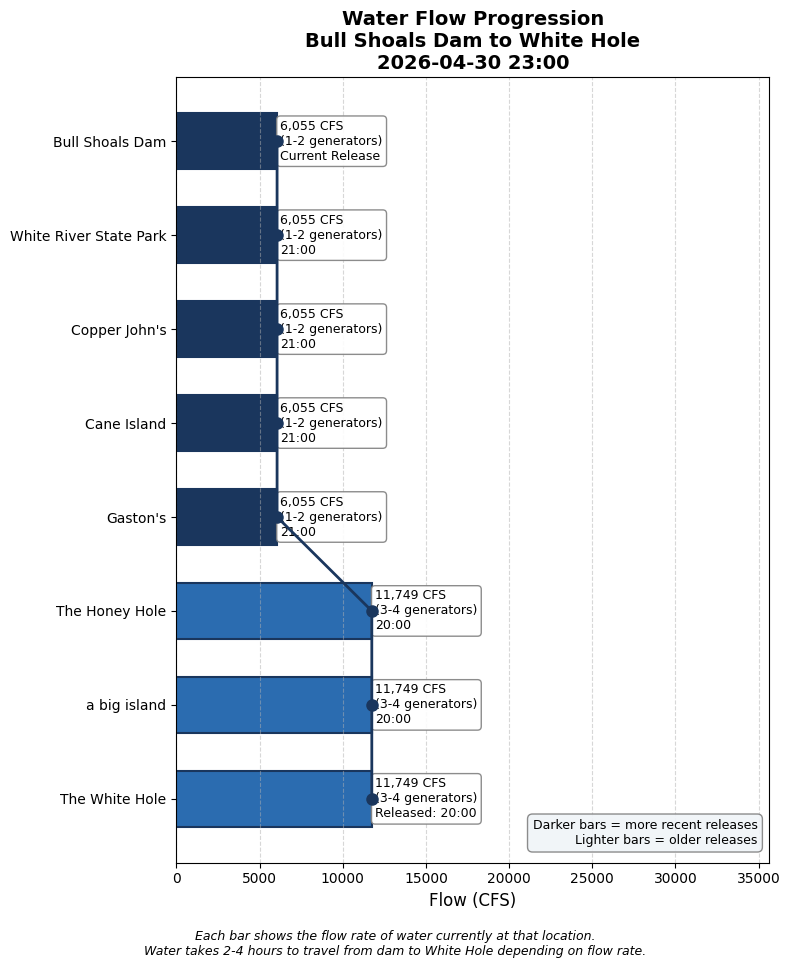
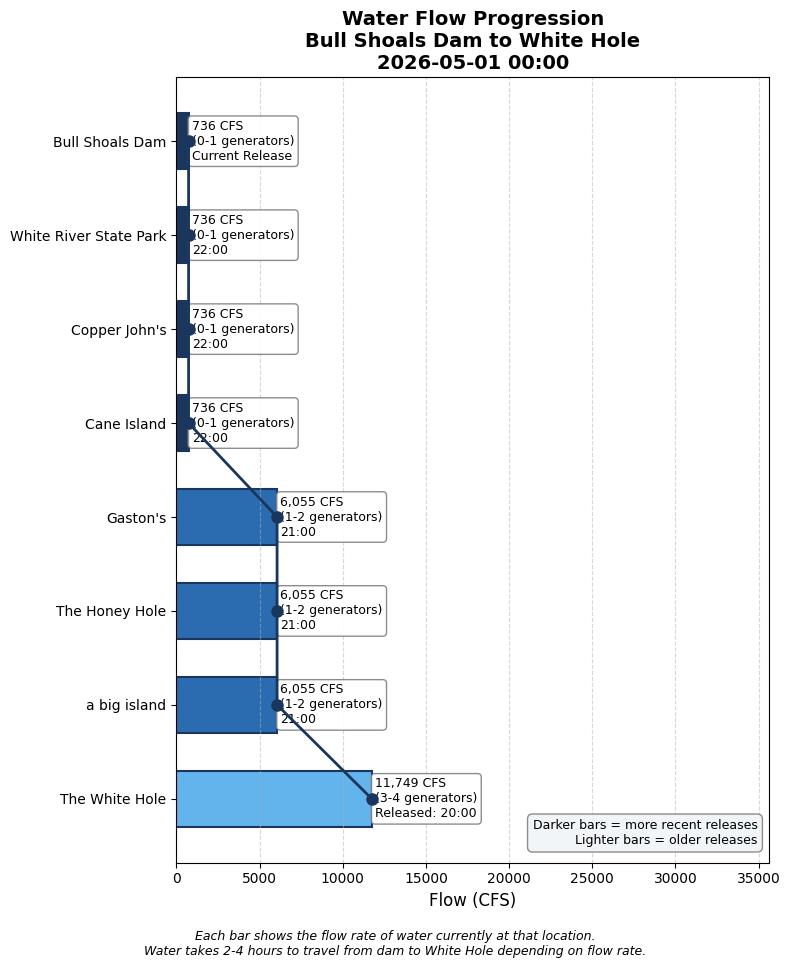
Update water conditions 2026-05-01 00:00

diff --git a/white_hole_conditions.html b/white_hole_conditions.html
@@ -3,7 +3,7 @@
 <head>
     <meta charset="UTF-8">
     <meta name="viewport" content="width=device-width, initial-scale=1.0">
-    <title>White Hole Conditions - 2026-04-30 23:00</title>
+    <title>White Hole Conditions - 2026-05-01 00:00</title>
     <style>
         body {
             font-family: -apple-system, BlinkMacSystemFont, 'Segoe UI', Roboto, sans-serif;
@@ -148,7 +148,7 @@
 </head>
 <body>
     <h1>White Hole Current Conditions</h1>
-    <p class="subtitle">Thursday, April 30, 2026 at 11:00 PM</p>
+    <p class="subtitle">Friday, May 01, 2026 at 12:00 AM</p>
 
     <!-- HEADLINE BANNER -->
     <div class="headline-banner">
@@ -189,9 +189,33 @@
                 <tr><td colspan="3" style="padding: 8px 10px; font-size: 0.8em; font-weight: bold; color: #6b46c1; text-transform: uppercase; letter-spacing: 0.05em; background-color: #f3e8ff;">Scheduled (SWPA forecast)</td></tr>
                 
                     <tr style="background-color: #faf5ff; border-left: 4px solid #38a169;">
-                        <td style="padding: 10px; font-weight: bold;">11 PM</td>
+                        <td style="padding: 10px; font-weight: bold;">3 AM</td>
                         <td style="padding: 10px;">723 CFS<br><small style="color: #666;">(0-1 generators: 473 generation + 250 min flow)</small></td>
-                        <td style="padding: 10px;">~2:44 AM
+                        <td style="padding: 10px;">~6:44 AM
+                            <span style="display: inline-block; margin-left: 6px; padding: 2px 8px; border-radius: 12px; font-size: 0.8em; background-color: #d1fae5; color: #065f46;">Excellent Wading</span>
+                        </td>
+                    </tr>
+                
+                    <tr style="background-color: #faf5ff; border-left: 4px solid #38a169;">
+                        <td style="padding: 10px; font-weight: bold;">2 AM</td>
+                        <td style="padding: 10px;">723 CFS<br><small style="color: #666;">(0-1 generators: 473 generation + 250 min flow)</small></td>
+                        <td style="padding: 10px;">~5:44 AM
+                            <span style="display: inline-block; margin-left: 6px; padding: 2px 8px; border-radius: 12px; font-size: 0.8em; background-color: #d1fae5; color: #065f46;">Excellent Wading</span>
+                        </td>
+                    </tr>
+                
+                    <tr style="background-color: #faf5ff; border-left: 4px solid #38a169;">
+                        <td style="padding: 10px; font-weight: bold;">1 AM</td>
+                        <td style="padding: 10px;">723 CFS<br><small style="color: #666;">(0-1 generators: 473 generation + 250 min flow)</small></td>
+                        <td style="padding: 10px;">~4:44 AM
+                            <span style="display: inline-block; margin-left: 6px; padding: 2px 8px; border-radius: 12px; font-size: 0.8em; background-color: #d1fae5; color: #065f46;">Excellent Wading</span>
+                        </td>
+                    </tr>
+                
+                    <tr style="background-color: #faf5ff; border-left: 4px solid #38a169;">
+                        <td style="padding: 10px; font-weight: bold;">12 AM</td>
+                        <td style="padding: 10px;">723 CFS<br><small style="color: #666;">(0-1 generators: 473 generation + 250 min flow)</small></td>
+                        <td style="padding: 10px;">~3:44 AM
                             <span style="display: inline-block; margin-left: 6px; padding: 2px 8px; border-radius: 12px; font-size: 0.8em; background-color: #d1fae5; color: #065f46;">Excellent Wading</span>
                         </td>
                     </tr>
@@ -201,9 +225,15 @@
                 <tr><td colspan="3" style="padding: 8px 10px; font-size: 0.8em; font-weight: bold; color: #2b6cb0; text-transform: uppercase; letter-spacing: 0.05em; background-color: #ebf8ff;">Actual (dam readings)</td></tr>
                 
                     <tr style="background-color: #ebf8ff;">
+                        <td style="padding: 10px; font-weight: bold;">10:00 PM</td>
+                        <td style="padding: 10px;">736 CFS<br><small style="color: #666;">(0-1 generators)</small></td>
+                        <td style="padding: 10px;"><span style="color: #2b6cb0;">→ Arrives ~1:44 AM (in 103 min)</span></td>
+                    </tr>
+                
+                    <tr style="background-color: #ebf8ff;">
                         <td style="padding: 10px; font-weight: bold;">9:00 PM</td>
                         <td style="padding: 10px;">6,055 CFS<br><small style="color: #666;">(1-2 generators)</small></td>
-                        <td style="padding: 10px;"><span style="color: #2b6cb0;">→ Arrives ~12:03 AM (in 63 min)</span></td>
+                        <td style="padding: 10px;"><span style="color: #2b6cb0;">→ Arrives ~12:03 AM (in 3 min)</span></td>
                     </tr>
                 
                     <tr style="background-color: #e6fffa;">
@@ -213,8 +243,8 @@
                     </tr>
                 
                     <tr style="">
-                        <td style="padding: 10px; font-weight: bold;">4:00 PM</td>
-                        <td style="padding: 10px;">4,654 CFS<br><small style="color: #666;">(1-2 generators)</small></td>
+                        <td style="padding: 10px; font-weight: bold;">5:00 PM</td>
+                        <td style="padding: 10px;">10,716 CFS<br><small style="color: #666;">(3-4 generators)</small></td>
                         <td style="padding: 10px;"><span style="color: #718096;">passed</span></td>
                     </tr>
                 
@@ -244,7 +274,7 @@
         </summary>
         <div style="padding: 15px;">
             <ul>
-                <li>Latest dam reading: 6,055 CFS at 2026-04-30 21:00</li>
+                <li>Latest dam reading: 736 CFS at 2026-04-30 22:00</li>
                 <li>Travel time to White Hole: 2.5 hours at current flow</li>
                 <li>White Hole conditions based on dam reading from: 2026-04-30 20:00</li>
             </ul>
@@ -268,6 +298,13 @@
                     </thead>
                     <tbody>
                         
+                <tr style="border-bottom: 1px solid #eee;">
+                    <td style="padding: 8px;">2026-04-30 22:00</td>
+                    <td style="padding: 8px; text-align: right;">736</td>
+                    <td style="padding: 8px; text-align: right;">0.2</td>
+                    <td style="padding: 8px; text-align: right;">3.7</td>
+                </tr>
+                
                 <tr style="border-bottom: 1px solid #eee;">
                     <td style="padding: 8px;">2026-04-30 21:00</td>
                     <td style="padding: 8px; text-align: right;">6055</td>
@@ -331,13 +368,6 @@
                     <td style="padding: 8px; text-align: right;">3.7</td>
                 </tr>
                 
-                <tr style="border-bottom: 1px solid #eee;">
-                    <td style="padding: 8px;">2026-04-30 12:00</td>
-                    <td style="padding: 8px; text-align: right;">717</td>
-                    <td style="padding: 8px; text-align: right;">0.2</td>
-                    <td style="padding: 8px; text-align: right;">3.7</td>
-                </tr>
-                
                     </tbody>
                 </table>
             </div>
@@ -345,7 +375,7 @@
         
 
     <div class="timestamp">
-        Data retrieved and processed on 2026-04-30 23:00:08
+        Data retrieved and processed on 2026-05-01 00:00:08
     </div>
 </body>
 </html>
